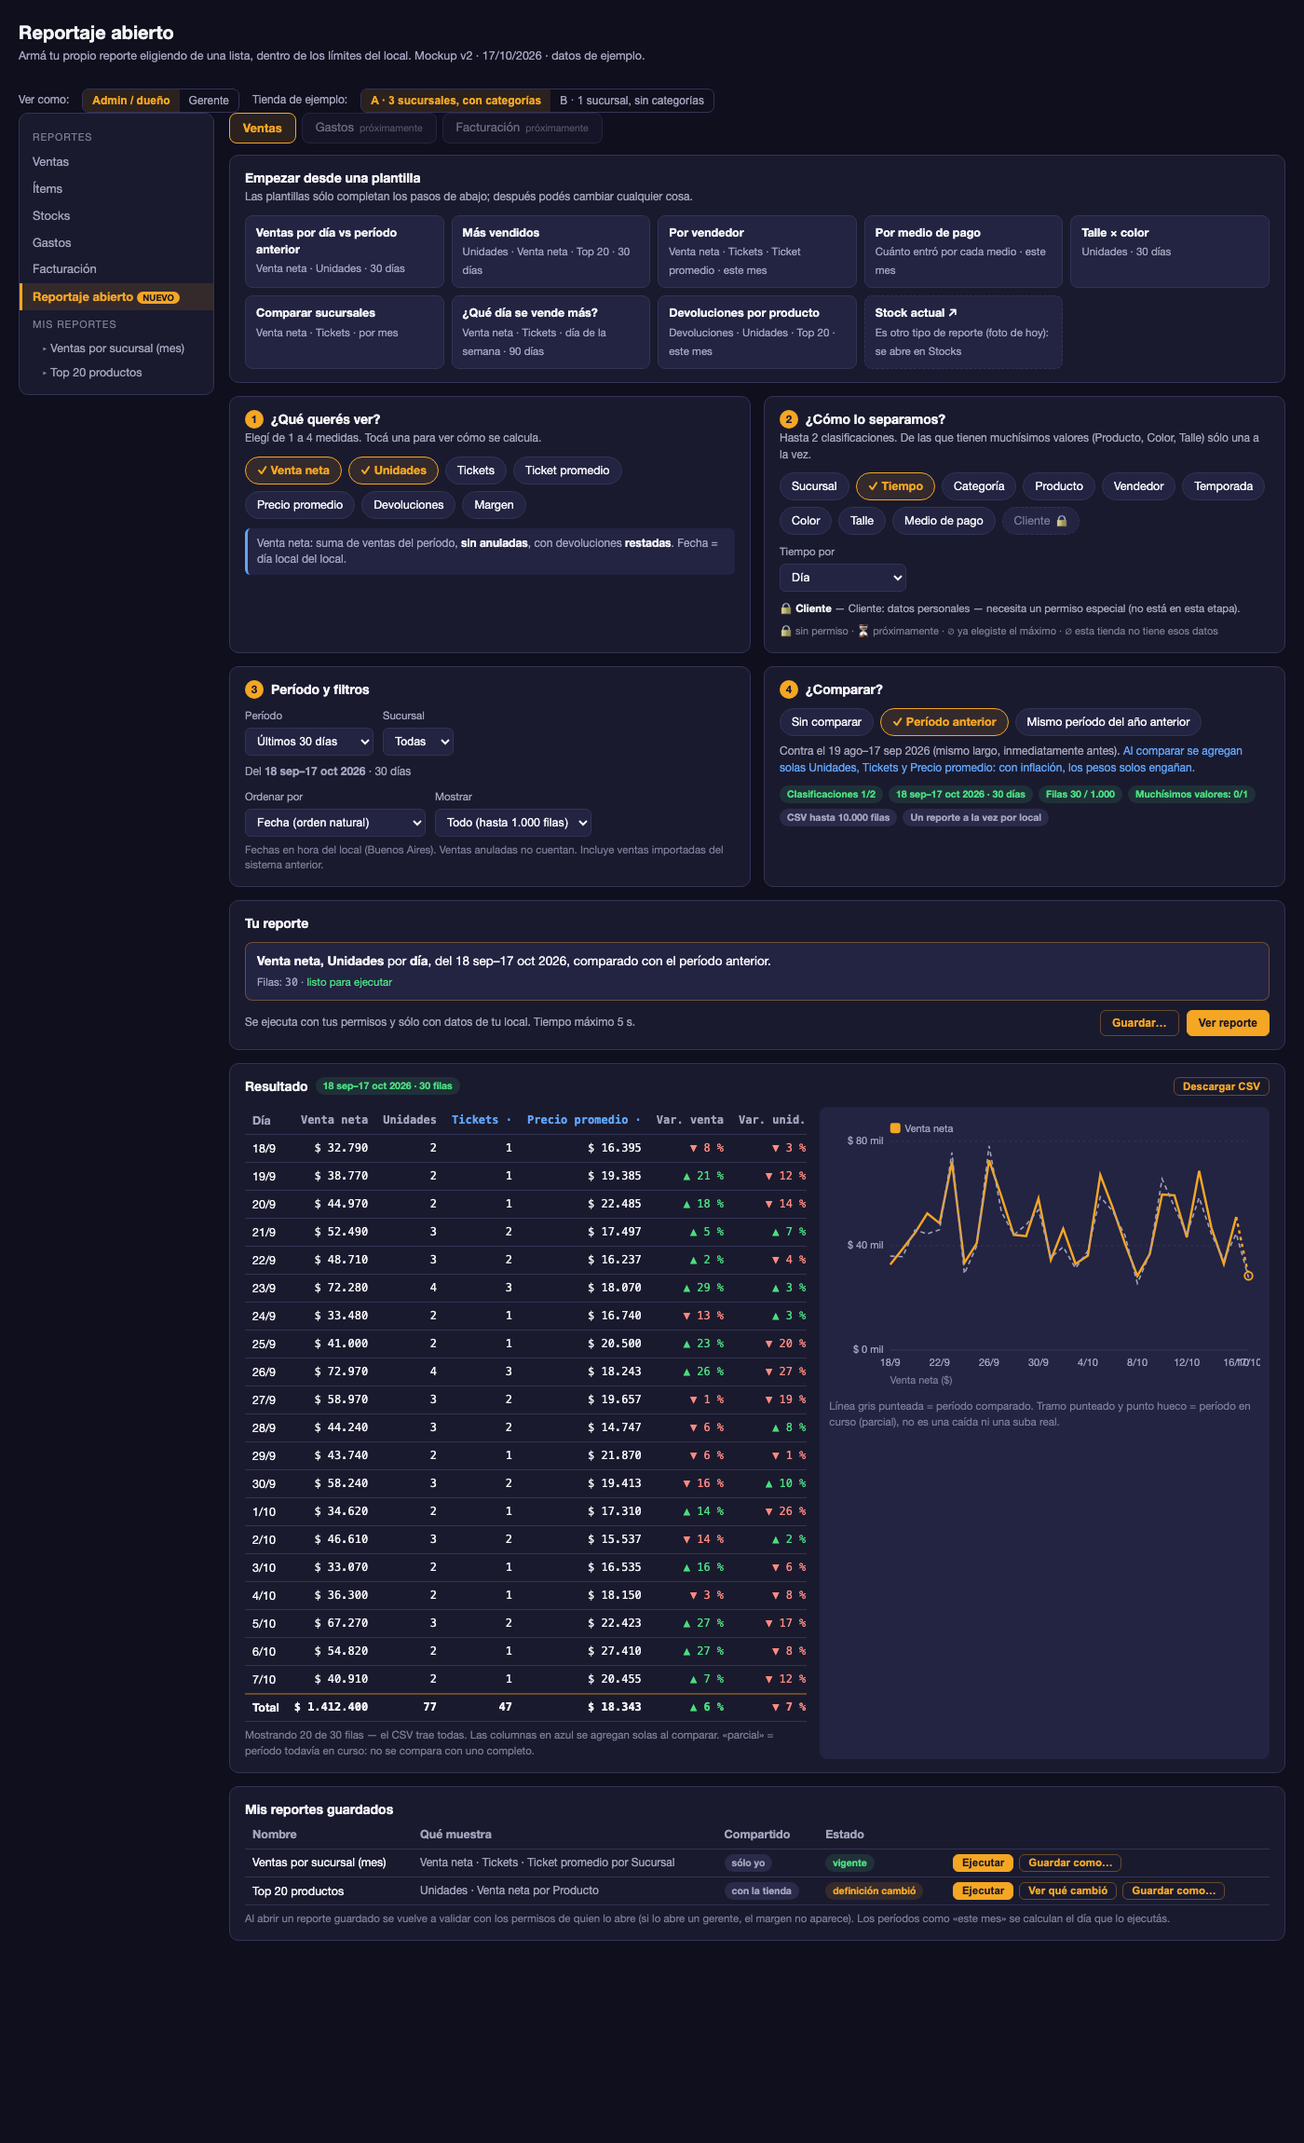
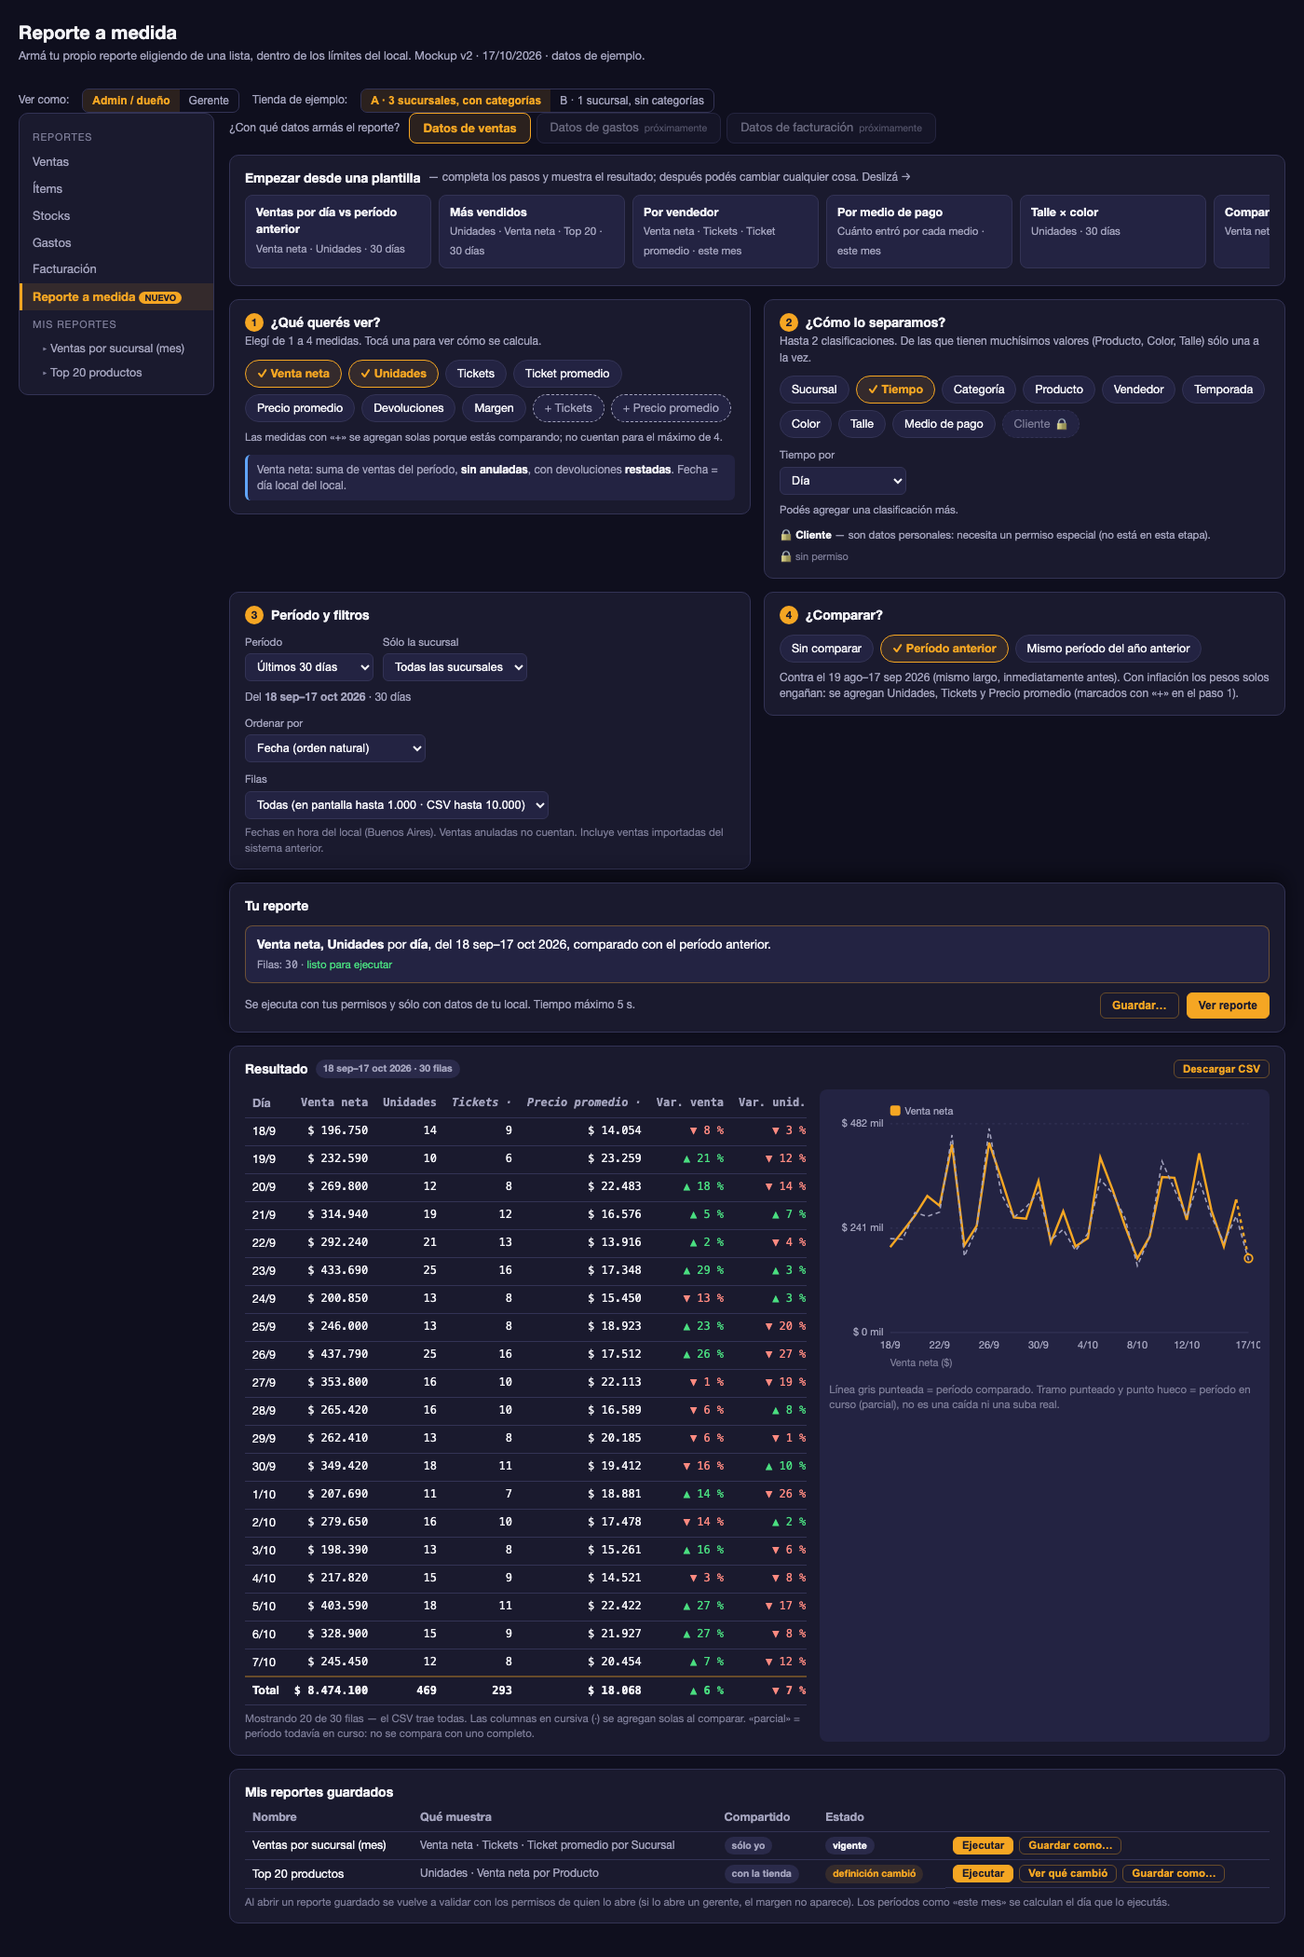
mockup v3: plantillas en una fila, «Tu reporte» fijo abajo, medidas «+» al comparar, pistas en lenguaje del usuario en vez de badges, filtro «Sólo la sucursal», colores sobrios
Claude-Session: https://claude.ai/code/session_015aWvwfSKzeMPRzDaQknsG2

diff --git a/.planning/mockups/2026-10-17-reportaje-abierto/mockup.html b/.planning/mockups/2026-10-17-reportaje-abierto/mockup.html
@@ -15,7 +15,7 @@
 body{margin:0;background:var(--bg);color:var(--tx);font:14px/1.45 Roboto,'Helvetica Neue',system-ui,sans-serif;padding:20px}
 h1{font-size:20px;margin:0 0 2px}
 .sub{color:var(--mu);font-size:12.5px;margin-bottom:14px}
-.lay{display:grid;grid-template-columns:210px 1fr;gap:16px;align-items:start}
+.lay{display:grid;grid-template-columns:210px minmax(0,1fr);gap:16px;align-items:start}
 .nav{background:var(--s1);border:1px solid var(--bd);border-radius:10px;padding:10px 0;font-size:13px;position:sticky;top:12px}
 .nav .g{color:var(--fa);font-size:11px;text-transform:uppercase;letter-spacing:.08em;padding:8px 14px 4px}
 .nav .i{padding:5px 14px;color:var(--mu);cursor:default}
@@ -38,19 +38,25 @@ h1{font-size:20px;margin:0 0 2px}
 .type.on{border-color:var(--gold);color:var(--gold);background:var(--goldS);font-weight:700}
 .type.soon{opacity:.6}
 .type small{font-size:10.5px;margin-left:6px;color:var(--fa)}
-.tpls{display:grid;grid-template-columns:repeat(auto-fill,minmax(190px,1fr));gap:8px;margin-top:10px}
+.tpls{display:flex;gap:8px;margin-top:8px;overflow-x:auto;padding-bottom:4px}
+.tpls .tpl{flex:0 0 200px}
 .tpl{background:var(--s2);border:1px solid var(--bd);border-radius:8px;padding:9px 11px;cursor:pointer}
 .tpl:hover{border-color:var(--goldB)}
 .tpl b{display:block;font-size:12.5px}
 .tpl span{font-size:11.5px;color:var(--mu)}
 .tpl.stock{border-style:dashed}
 .tpl.na{opacity:.45;cursor:not-allowed}
-.grid2{display:grid;grid-template-columns:1fr 1fr;gap:14px}
+.grid2{display:grid;grid-template-columns:minmax(0,1fr) minmax(0,1fr);gap:14px;align-items:start}
 .opts{display:flex;flex-wrap:wrap;gap:7px;margin-top:10px}
 .opt{border:1px solid var(--bd);background:var(--s2);color:var(--tx);border-radius:18px;padding:5px 12px;font-size:12.5px;cursor:pointer;user-select:none}
 .opt.on{border-color:var(--gold);background:var(--goldS);color:var(--gold);font-weight:700}
 .opt.on::before{content:'✓ '}
 .opt.off{color:var(--fa);border-style:dashed;cursor:not-allowed}
+.opt.auto{border-style:dashed;border-color:var(--mu);color:var(--mu);cursor:default}
+.opt.auto::before{content:'+ '}
+#bar{position:sticky;bottom:0;z-index:5;box-shadow:0 -8px 20px rgba(0,0,0,.45)}
+.hint{font-size:11.5px;color:var(--mu);margin-top:8px}
+.hint.near{color:#ffd28a}
 .opt .ic{font-size:11px;margin-left:5px}
 .reasons{margin:10px 0 0;padding:0;list-style:none;font-size:11.5px;color:var(--mu)}
 .reasons li{margin:2px 0}
@@ -64,7 +70,7 @@ label.f{font-size:11.5px;color:var(--mu);display:flex;flex-direction:column;gap:
 select{background:var(--s2);border:1px solid var(--bd);color:var(--tx);border-radius:6px;padding:6px 8px;font-size:12.5px}
 .lim{display:flex;gap:6px;flex-wrap:wrap;margin-top:10px}
 .chip{display:inline-block;font-size:10.5px;font-weight:700;padding:2px 8px;border-radius:10px}
-.c-ok{background:var(--okS);color:var(--ok)}.c-gold{background:var(--goldS);color:var(--gold)}.c-dan{background:var(--danS);color:#ff8a80}.c-mu{background:var(--s3);color:var(--mu)}
+.c-ok{background:var(--s3);color:var(--tx)}.c-gold{background:var(--goldS);color:var(--gold)}.c-dan{background:var(--danS);color:#ff8a80}.c-mu{background:var(--s3);color:var(--mu)}
 .alert{border-radius:8px;padding:9px 12px;font-size:12.5px;margin-top:10px;display:flex;gap:10px;align-items:center;justify-content:space-between;flex-wrap:wrap}
 .alert.warn{background:var(--goldS);border:1px solid var(--goldB);color:#ffd28a}
 .alert.err{background:var(--danS);border:1px solid rgba(239,68,68,.4);color:#ffb3ab}
@@ -79,12 +85,12 @@ table{width:100%;border-collapse:collapse;font-size:12.5px}
 th{color:var(--mu);font-weight:600;text-align:left;padding:5px 8px;border-bottom:1px solid var(--bd);white-space:nowrap;height:30px}
 td{padding:5px 8px;border-bottom:1px solid var(--bd);height:30px;white-space:nowrap}
 td.n,th.n{text-align:right;font-family:var(--mono);font-size:12px}
-th.auto{color:var(--info)}
+th.auto{color:var(--mu);font-style:italic}
 tr.sub td{font-weight:700;background:var(--s2)}
 tr.tot td{font-weight:800;border-top:2px solid var(--goldB)}
 .up{color:var(--ok)}.dn{color:#ff8a80}
 .pz{font-size:10px;color:var(--gold);margin-left:4px}
-.res{display:grid;grid-template-columns:1.25fr 1fr;gap:14px;margin-top:10px}
+.res{display:grid;grid-template-columns:minmax(0,1.25fr) minmax(0,1fr);gap:14px;margin-top:10px}
 .tblwrap{overflow-x:auto}
 .chart{background:var(--s2);border-radius:8px;padding:10px}
 .empty{padding:28px;text-align:center;color:var(--mu);font-size:13px;border:1px dashed var(--bd);border-radius:8px;margin-top:10px}
@@ -119,15 +125,14 @@ tr.tot td{font-weight:800;border-top:2px solid var(--goldB)}
   </div>
 
   <div>
-    <div class="types">
-      <div class="type on">Ventas</div>
-      <div class="type soon">Gastos<small>próximamente</small></div>
-      <div class="type soon">Facturación<small>próximamente</small></div>
+    <div class="types"><span class="cap" style="align-self:center;margin-right:4px">¿Con qué datos armás el reporte?</span>
+      <div class="type on">Datos de ventas</div>
+      <div class="type soon">Datos de gastos<small>próximamente</small></div>
+      <div class="type soon">Datos de facturación<small>próximamente</small></div>
     </div>
 
     <div class="card">
-      <h3>Empezar desde una plantilla</h3>
-      <div class="cap">Las plantillas sólo completan los pasos de abajo; después podés cambiar cualquier cosa.</div>
+      <h3>Empezar desde una plantilla <span class="cap" style="font-weight:400">— completa los pasos y muestra el resultado; después podés cambiar cualquier cosa. Deslizá →</span></h3>
       <div class="tpls" id="tpls"></div>
     </div>
 
@@ -136,6 +141,7 @@ tr.tot td{font-weight:800;border-top:2px solid var(--goldB)}
         <h3><span class="step">1</span>¿Qué querés ver?</h3>
         <div class="cap">Elegí de 1 a 4 medidas. Tocá una para ver cómo se calcula.</div>
         <div class="opts" id="metrics"></div>
+        <div class="hint" id="mHint"></div>
         <ul class="reasons" id="mReasons"></ul>
         <div class="def" id="def">Venta neta: suma de ventas del período, <b>sin anuladas</b>, con devoluciones <b>restadas</b>. Fecha = día local del local.</div>
         <div class="warnline" id="costWarn" style="display:none"></div>
@@ -149,8 +155,9 @@ tr.tot td{font-weight:800;border-top:2px solid var(--goldB)}
             <select id="grain"><option value="dia">Día</option><option value="semana">Semana</option><option value="mes">Mes</option><option value="dow">Día de la semana</option><option value="hora">Hora del día</option></select>
           </label>
         </div>
+        <div class="hint" id="dHint"></div>
         <ul class="reasons" id="dReasons"></ul>
-        <div class="legend">🔒 sin permiso · ⏳ próximamente · ⊘ ya elegiste el máximo · ∅ esta tienda no tiene esos datos</div>
+        <div class="legend" id="legend"></div>
       </div>
     </div>
 
@@ -168,15 +175,15 @@ tr.tot td{font-weight:800;border-top:2px solid var(--goldB)}
               <option value="365">Últimos 12 meses</option>
             </select>
           </label>
-          <label class="f" id="sucFilter">Sucursal
-            <select><option>Todas</option><option>Centro</option><option>Once</option><option>Flores</option></select>
+          <label class="f" id="sucFilter">Sólo la sucursal
+            <select><option>Todas las sucursales</option><option>Centro</option><option>Once</option><option>Flores</option></select>
           </label>
         </div>
         <div class="cap" style="margin-top:8px" id="rangeTxt"></div>
         <div class="row">
           <label class="f" id="orderWrap">Ordenar por <select id="order"></select></label>
-          <label class="f">Mostrar
-            <select id="topn"><option value="0">Todo (hasta 1.000 filas)</option><option value="10">Top 10</option><option value="20">Top 20</option><option value="50">Top 50</option><option value="100">Top 100</option></select>
+          <label class="f">Filas
+            <select id="topn"><option value="0">Todas (en pantalla hasta 1.000 · CSV hasta 10.000)</option><option value="10">Top 10</option><option value="20">Top 20</option><option value="50">Top 50</option><option value="100">Top 100</option></select>
           </label>
         </div>
         <div class="note">Fechas en hora del local (Buenos Aires). Ventas anuladas no cuentan. Incluye ventas importadas del sistema anterior.</div>
@@ -189,11 +196,11 @@ tr.tot td{font-weight:800;border-top:2px solid var(--goldB)}
           <div class="opt" data-c="yoy">Mismo período del año anterior</div>
         </div>
         <div class="cap" style="margin-top:8px" id="cmpTxt"></div>
-        <div class="lim" id="lims"></div>
+
       </div>
     </div>
 
-    <div class="card">
+    <div class="card" id="bar">
       <h3>Tu reporte</h3>
       <div class="summary"><div id="sumTxt"></div><div class="meta" id="sumMeta"></div></div>
       <div id="alerts"></div>
@@ -284,7 +291,7 @@ function metricOff(x){
   if((x.k==='tick'||x.k==='prom')&&st.d.includes('pago'))return['⊘','Con «Medio de pago» no se puede: un ticket pagado con 2 medios contaría 2 veces.'];
   return null}
 function dimOff(x){
-  if(x.priv)return['🔒','Cliente: datos personales — necesita un permiso especial (no está en esta etapa).'];
+  if(x.priv)return['🔒','son datos personales: necesita un permiso especial (no está en esta etapa).'];
   if(STORE[st.store][x.k])return['∅',STORE[st.store][x.k]];
   if(!st.d.includes(x.k)){
     if(st.d.length>=2)return['⊘','Ya elegiste 2 clasificaciones (máximo). Quitá una para elegir otra.'];
@@ -314,6 +321,15 @@ function render(){
   $('#dims').innerHTML=D.map(x=>{const o=dimOff(x);if(o&&!st.d.includes(x.k))dR.push([o[0],x.n,o[1]]);return `<div class="opt ${st.d.includes(x.k)?'on':''} ${o&&!st.d.includes(x.k)?'off':''}" data-k="${x.k}">${x.n}${o&&!st.d.includes(x.k)?`<span class="ic">${o[0]}</span>`:''}</div>`}).join('');
   const grp=a=>{const m=new Map();a.forEach(([ic,n,why])=>{const k=ic+'|'+why;m.set(k,[...(m.get(k)||[]),n])});return [...m].map(([k,ns])=>{const[ic,why]=k.split('|');return `<li>${ic} <b>${ns.join(', ')}</b> — ${why}</li>`}).join('')};
   $('#mReasons').innerHTML=grp(mR);$('#dReasons').innerHTML=grp(dR);
+  const autoK=st.cmp!=='no'?['uni','tick','aur'].filter(k=>!st.m.includes(k)&&!(st.d.includes('pago')&&k==='tick')):[];
+  if(autoK.length)$('#metrics').innerHTML+=autoK.map(k=>`<div class="opt auto" title="Se agrega al comparar">${M.find(z=>z.k===k).n}</div>`).join('');
+  $('#mHint').className='hint'+(st.m.length>=4?' near':'');
+  $('#mHint').innerHTML=(st.m.length>=4?'Ya elegiste 4 medidas (el máximo). ':'')+(autoK.length?'Las medidas con «+» se agregan solas porque estás comparando; no cuentan para el máximo de 4.':'');
+  const many=st.d.some(k=>D.find(z=>z.k===k).many);
+  $('#dHint').className='hint'+(st.d.length>=2?' near':'');
+  $('#dHint').textContent=st.d.length===0?'':st.d.length===1?'Podés agregar una clasificación más.'+(many?' Producto, Color y Talle: ya usaste la única permitida.':''):'Ya tenés 2 clasificaciones (el máximo).';
+  const icons=new Set([...mR,...dR].map(x=>x[0]));const LEG={'🔒':'🔒 sin permiso','⏳':'⏳ próximamente','⊘':'⊘ por el máximo o una combinación no permitida','∅':'∅ esta tienda no tiene esos datos'};
+  $('#legend').textContent=[...icons].map(i=>LEG[i]).join(' · ');
   $('#costWarn').style.display=st.m.includes('marg')?'block':'none';
   $('#costWarn').textContent=`⚠ Sólo el ${COST[st.store]} % de la venta tiene costo cargado: el margen se calcula sobre esa parte.`;
   $('#grainRow').style.display=st.d.includes('tiempo')?'flex':'none';
@@ -332,7 +348,7 @@ function render(){
   document.querySelectorAll('#role button').forEach(b=>b.classList.toggle('on',b.dataset.r===st.role));
   document.querySelectorAll('#store button').forEach(b=>b.classList.toggle('on',b.dataset.s===st.store));
   $('#cmpTxt').innerHTML=st.cmp==='prev'?`Contra el ${rangeLabel(prevRange(r))} (mismo largo, inmediatamente antes).`:st.cmp==='yoy'?`Contra el ${rangeLabel([addD(r[0],-365),addD(r[1],-365)])}.`:'';
-  if(st.cmp!=='no')$('#cmpTxt').innerHTML+=' <span style="color:var(--info)">Al comparar se agregan solas Unidades, Tickets y Precio promedio: con inflación, los pesos solos engañan.</span>';
+  if(st.cmp!=='no')$('#cmpTxt').innerHTML+=' <span style="color:var(--mu)">Con inflación los pesos solos engañan: se agregan Unidades, Tickets y Precio promedio (marcados con «+» en el paso 1).</span>';
   validate();renderSaved();
 }
 function prevRange(r){const n=days(r);return[addD(r[0],-n),addD(r[0],-1)]}
@@ -359,8 +375,6 @@ function validate(){
   const tn=st.topn&&st.d.length?`, sólo los ${st.topn} primeros`:'';
   $('#sumTxt').innerHTML=`<b>${mn}</b> por <b>${dn}</b>, del ${rangeLabel(r)}${cn}${tn}.`;
   $('#sumMeta').innerHTML=`Filas: <span style="font-family:var(--mono)">${est.toLocaleString('es-AR')}</span>${st.d.length===2?' (+ subtotales)':''} · ${BLOCK?'<span style="color:#ff8a80">corregí lo marcado para poder ejecutar</span>':'<span style="color:#4ade80">listo para ejecutar</span>'}`;
-  const many=st.d.some(k=>D.find(z=>z.k===k).many);
-  $('#lims').innerHTML=[[`Clasificaciones ${st.d.length}/2`,st.d.length>=2?'c-gold':'c-ok'],[`${rangeLabel(r)} · ${dd} días`,BLOCK&&dd>90?'c-dan':'c-ok'],[`Filas ${est.toLocaleString('es-AR')} / 1.000`,est>1000?'c-dan':'c-ok'],[many?'Muchísimos valores: 1/1':'Muchísimos valores: 0/1',many?'c-gold':'c-ok'],['CSV hasta 10.000 filas','c-mu'],['Un reporte a la vez por local','c-mu']].map(([t,c])=>`<span class="chip ${c}">${t}</span>`).join('');
   if(st.ran){st.stale=true;markStale()}
 }
 function markStale(){const b=$('#resBody');if(!b)return;b.classList.add('stale');$('#resMeta').textContent='el reporte cambió — tocá «Ver reporte» otra vez';$('#resMeta').className='chip c-gold'}
@@ -386,7 +400,7 @@ function run(){
   const sortKey=(o,k)=>k==='prom'?o.neto/o.tick:k==='aur'?o.neto/o.uni:o[k];
   let groups=[];
   if(st.d.length===0){groups=[{label:'Total del local',rows:[{c:cell('tot',scale),l:[]}]}]}
-  else if(st.d.length===1){const k=st.d[0];let rows=dimVals(k).map(v=>({l:[v],p:pOf(k,v),c:cell(k+v,scale*fOf(k,v)*(k==='tiempo'?1/B.length*4:1))}));
+  else if(st.d.length===1){const k=st.d[0];let rows=dimVals(k).map(v=>({l:[v],p:pOf(k,v),c:cell(k+v,scale*fOf(k,v)*(k==='tiempo'?Math.max(0.6,24/B.length):1))}));
     if(st.order!=='_nat')rows.sort((a,b)=>sortKey(b.c,st.order)-sortKey(a.c,st.order));
     if(st.topn&&!D.find(z=>z.k===k)?.many&&k!=='tiempo')rows=rows.slice(0,st.topn);
     groups=[{rows}]}
@@ -407,8 +421,8 @@ function run(){
   if(st.d.length)html+=`<tr class="tot"><td colspan="${st.d.length}">Total</td>${cols.map(k=>`<td class="n">${metricVal(total,k)}</td>`).join('')}${vc(total)}</tr>`;
   const nRows=allRows.length;
   $('#resBody').className='';
-  $('#resBody').innerHTML=`<div class="res"><div class="tblwrap"><table>${html}</table><div class="note">${nRows>LIM?`Mostrando ${LIM} de ${nRows} filas — el CSV trae todas. `:''}${auto.length?'Las columnas en azul se agregan solas al comparar. ':''}${st.m.includes('prom')?'Ticket promedio recalculado por fila (venta ÷ tickets). ':''}${allRows.some(x=>x.p)||groups.some(g=>g.p)?'«parcial» = período todavía en curso: no se compara con uno completo.':''}</div></div><div class="chart"><svg id="svg" viewBox="0 0 380 240" width="100%"></svg><div class="note" id="chartNote"></div></div></div>`;
-  $('#resMeta').textContent=`${rangeLabel(r)} · ${nRows} filas`;$('#resMeta').className='chip c-ok';
+  $('#resBody').innerHTML=`<div class="res"><div class="tblwrap"><table>${html}</table><div class="note">${nRows>LIM?`Mostrando ${LIM} de ${nRows} filas — el CSV trae todas. `:''}${auto.length?'Las columnas en cursiva (·) se agregan solas al comparar. ':''}${st.m.includes('prom')?'Ticket promedio recalculado por fila (venta ÷ tickets). ':''}${allRows.some(x=>x.p)||groups.some(g=>g.p)?'«parcial» = período todavía en curso: no se compara con uno completo.':''}</div></div><div class="chart"><svg id="svg" viewBox="0 0 380 240" width="100%"></svg><div class="note" id="chartNote"></div></div></div>`;
+  $('#resMeta').textContent=`${rangeLabel(r)} · ${nRows} filas`;$('#resMeta').className='chip c-mu';
   $('#resBtns').innerHTML='<button class="btn sm">Descargar CSV</button>';
   drawChart(groups,B,r);
 }
@@ -431,7 +445,7 @@ function drawChart(groups,B,r){
       if(st.cmp!=='no'&&series.length===1)s+=`<polyline fill="none" stroke="#a3a3bd" stroke-width="1.3" stroke-dasharray="4 3" points="${se.pts.map((p,i)=>X(i)+','+Y(p.v*(1-((i*7)%11-4)/40))).join(' ')}"/>`;
       s+=`<rect x="${L+si*72}" y="6" width="9" height="9" rx="2" fill="${c}"/><text x="${L+13+si*72}" y="14" fill="#a3a3bd" font-size="9">${se.n.slice(0,10)}</text>`});
     const labs=series[0].pts.map((_,i)=>i);const step=Math.ceil(n/8);const lbls=(st.d.length===1||tIdx===1)?groups[0].rows.map(x=>tIdx===1&&st.d.length===2?x.l[1]:x.l[0]):groups.map(g=>g.label);
-    labs.forEach(i=>{if(i%step===0||i===n-1)s+=`<text x="${X(i)}" y="${H-Bm+14}" fill="#a3a3bd" font-size="9" text-anchor="middle">${lbls[i]}</text>`});
+    labs.forEach(i=>{if((i%step===0&&n-1-i>=step/2)||i===n-1)s+=`<text x="${X(i)}" y="${H-Bm+14}" fill="#a3a3bd" font-size="9" text-anchor="middle">${lbls[i]}</text>`});
     if(st.cmp!=='no'&&series.length===1)note+='Línea gris punteada = período comparado. ';
     if(series.some(se=>se.pts.some(p=>p.p)))note+='Tramo punteado y punto hueco = período en curso (parcial), no es una caída ni una suba real.';
   }else{
